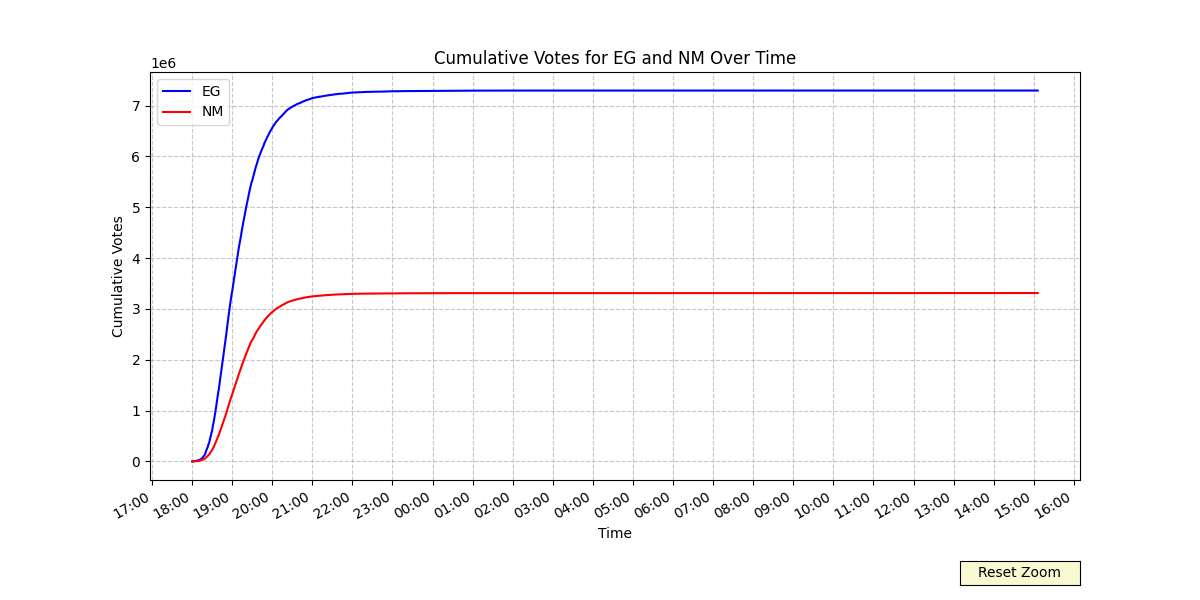
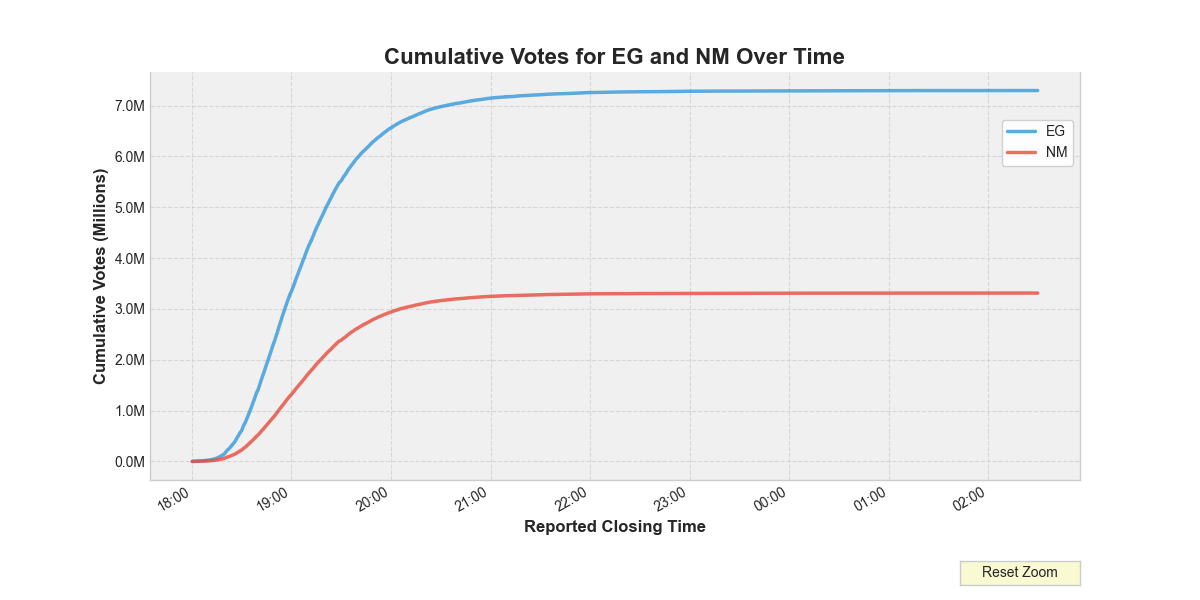
Clean up graphics and add some i18n

diff --git a/chart-time-vote.py b/chart-time-vote.py
@@ -3,11 +3,16 @@ import matplotlib.pyplot as plt
 from datetime import datetime, timedelta
 from matplotlib.widgets import Button
 
+# Set the style for a cleaner, more modern look
+plt.style.use('seaborn-v0_8-whitegrid')
+
 # Read the CSV file
 df = pd.read_csv('data/resultados-with-timestamps.csv')
 
 # Convert time_24 to datetime and adjust for crossing midnight
 def adjust_time(time_str):
+    if time_str == '15:05:58':
+        time_str = '19:26:00'
     try:
         time = datetime.strptime(time_str, "%H:%M")
     except ValueError:
@@ -34,10 +39,11 @@ df['NM_cumulative'] = df['NM'].cumsum()
 
 # Create the plot
 fig, ax = plt.subplots(figsize=(12, 6))
+ax.set_facecolor('#f0f0f0')  # Set a light gray background only for the plot area
 
 # Plot cumulative votes
-ax.plot(df['adjusted_time'], df['EG_cumulative'], label='EG', color='blue')
-ax.plot(df['adjusted_time'], df['NM_cumulative'], label='NM', color='red')
+ax.plot(df['adjusted_time'], df['EG_cumulative'] / 1e6, label='EG', color='#3498db', alpha=0.8, linewidth=2.5)
+ax.plot(df['adjusted_time'], df['NM_cumulative'] / 1e6, label='NM', color='#e74c3c', alpha=0.8, linewidth=2.5)
 
 # Set the x-axis to show hours and minutes
 ax.xaxis.set_major_formatter(plt.matplotlib.dates.DateFormatter('%H:%M'))
@@ -47,15 +53,27 @@ ax.xaxis.set_major_locator(plt.matplotlib.dates.HourLocator(interval=1))
 fig.autofmt_xdate()
 
 # Add labels and title
-ax.set_xlabel('Time')
-ax.set_ylabel('Cumulative Votes')
-ax.set_title('Cumulative Votes for EG and NM Over Time')
+ax.set_xlabel('Reported Closing Time', fontsize=12, fontweight='bold')
+ax.set_ylabel('Cumulative Votes (Millions)', fontsize=12, fontweight='bold')
+ax.set_title('Cumulative Votes for EG and NM Over Time', fontsize=16, fontweight='bold')
+
+# En español
+# ax.set_xlabel('Hora de cierre reportada', fontsize=12, fontweight='bold')
+# ax.set_ylabel('Votos Acumulados (Millones)', fontsize=12, fontweight='bold')
+# ax.set_title('Votos Acumulados para EG y NM por Hora', fontsize=16, fontweight='bold')
+
+
+# Format y-axis ticks to show millions
+ax.yaxis.set_major_formatter(plt.FuncFormatter(lambda x, p: f'{x:.1f}M'))
 
 # Add a legend
-ax.legend()
+ax.legend(loc='upper right', bbox_to_anchor=(1, 0.9), frameon=True, framealpha=0.9)
 
 # Add a grid for better readability
 ax.grid(True, linestyle='--', alpha=0.7)
+
+# Remove top and right spines
+ax.spines['top'].set_visible(False)
 
 # Enable zooming and panning
 ax.set_navigate(True)
